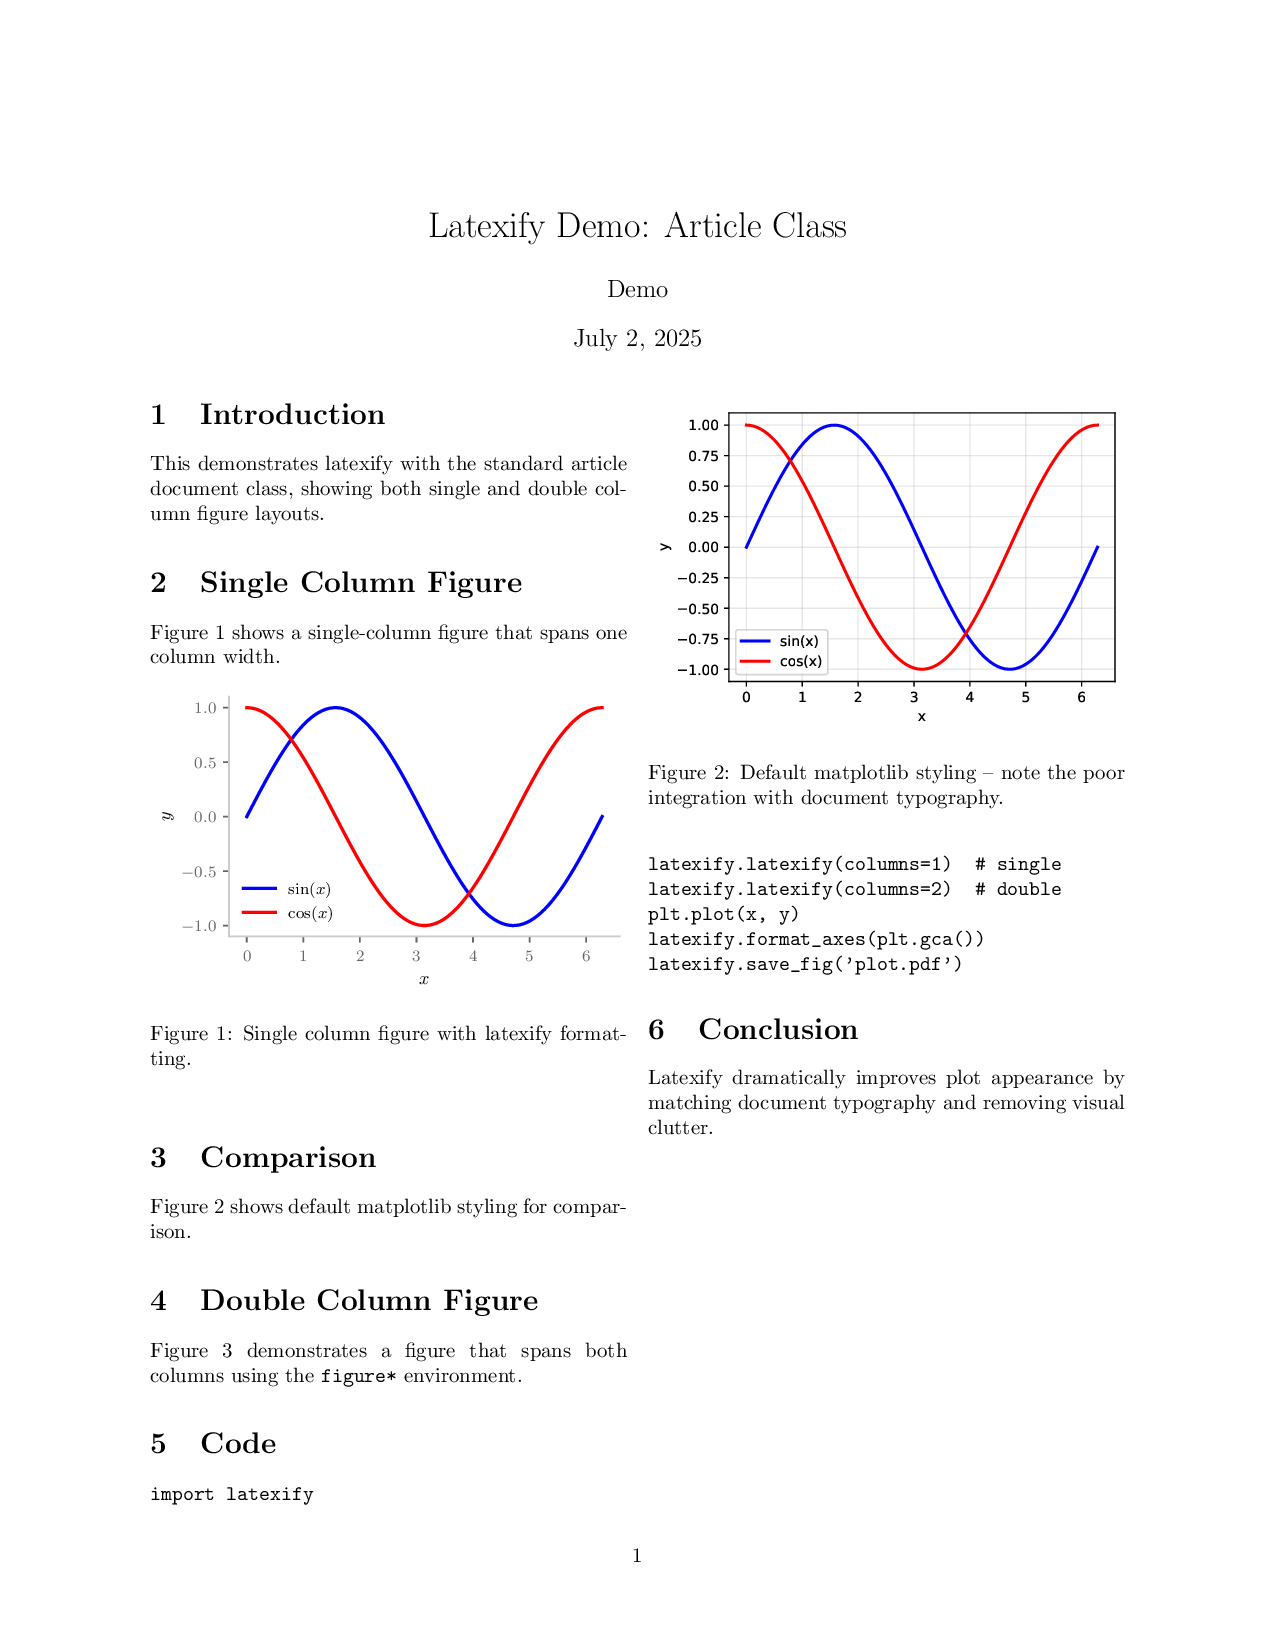
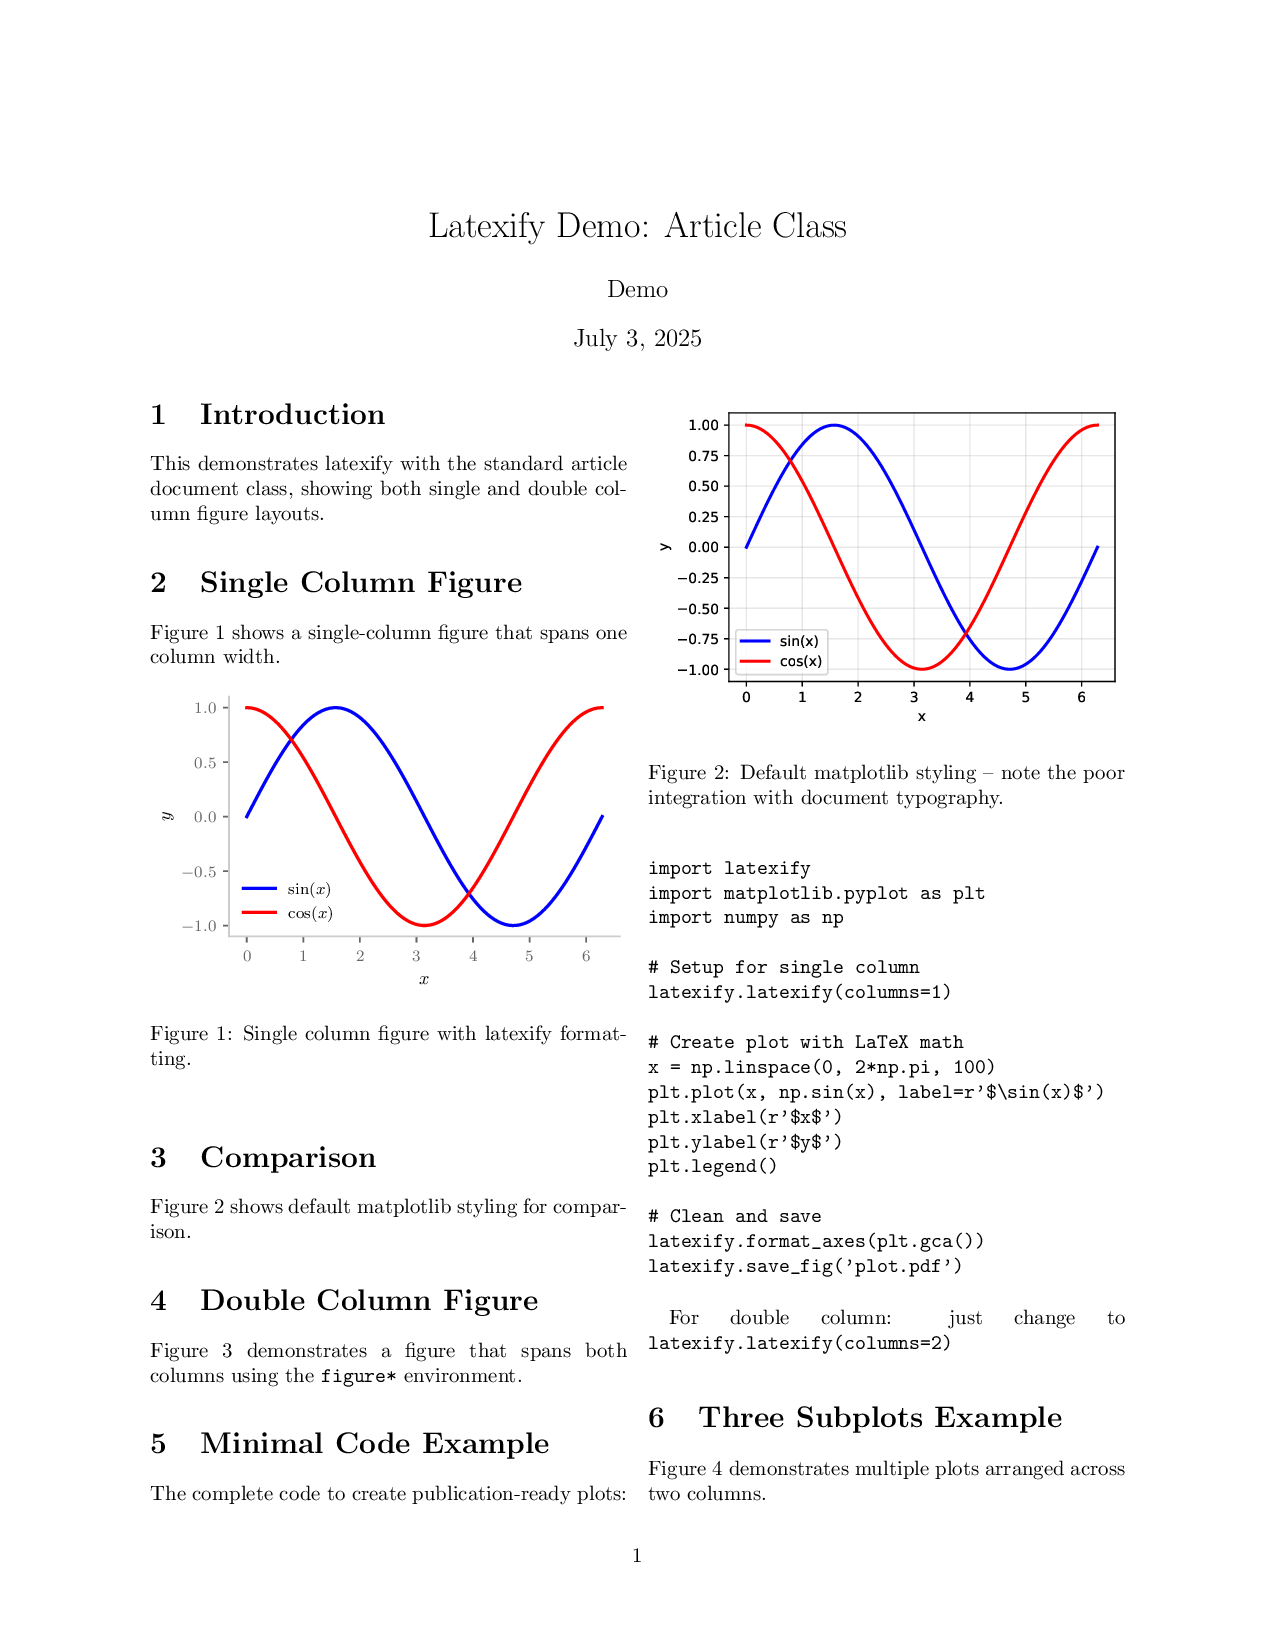
Major enhancements: Beamer support, 3-subplot layouts, and improved documentation
Features added:
- Beamer presentation support with largeFonts option
- 3 subplot examples across Article, IEEE, ACM, and Beamer formats
- Enhanced README with complete visual documentation
- Improved double column figure layout
- Code examples in PDFs with proper Python string quotes
- Credit to Jack Kelly for foundational work
- Lab usage mention for credibility

Visual improvements:
- Fixed double column figure proportions and styling
- Added Page 3 showing subplot layouts and code examples
- Beamer slide snapshots showing presentation-ready plots
- Better plot generation with progress indicators

Code quality:
- Enhanced plot generation script with subplot examples
- Improved latexify module documentation
- Better error handling and user feedback

🤖 Generated with [Claude Code](https://claude.ai/code)

diff --git a/examples/generate_plots.py b/examples/generate_plots.py
@@ -23,6 +23,7 @@ def create_plots():
     plt.grid(True, alpha=0.3)
     plt.savefig('plots/default.pdf', bbox_inches='tight')
     plt.close()
+    print("✓ Default matplotlib")
     
     # Article single column
     latexify.latexify(columns=1)
@@ -35,18 +36,21 @@ def create_plots():
     latexify.format_axes(plt.gca())
     latexify.save_fig('plots/article_single.pdf')
     plt.close()
+    print("✓ Article single column")
     
-    # Article double column
+    # Article double column - IMPROVED
     latexify.latexify(columns=2)
-    plt.figure()
-    plt.plot(x, np.sin(x), 'b-', label=r'$\sin(x)$')
-    plt.plot(x, np.cos(x), 'r-', label=r'$\cos(x)$')
-    plt.xlabel(r'$x$')
-    plt.ylabel(r'$y$')
-    plt.legend()
-    latexify.format_axes(plt.gca())
-    latexify.save_fig('plots/article_double.pdf')
+    fig, ax = plt.subplots(figsize=(6.5, 4.0))  # Better proportions
+    ax.plot(x, np.sin(x), 'b-', linewidth=1.5, label=r'$\sin(x)$')
+    ax.plot(x, np.cos(x), 'r-', linewidth=1.5, label=r'$\cos(x)$')
+    ax.plot(x, 0.5*np.sin(2*x), 'g--', linewidth=1.5, label=r'$\frac{1}{2}\sin(2x)$')
+    ax.set_xlabel(r'$x$ (radians)')
+    ax.set_ylabel(r'Amplitude')
+    ax.legend(loc='upper right')
+    latexify.format_axes(ax)
+    latexify.save_fig('plots/article_double.pdf', fig=fig)
     plt.close()
+    print("✓ Article double column (improved)")
     
     # IEEE format
     latexify.latexify(fig_width=3.4, fig_height=2.3)
@@ -58,6 +62,7 @@ def create_plots():
     latexify.format_axes(plt.gca())
     latexify.save_fig('plots/ieee_single.pdf')
     plt.close()
+    print("✓ IEEE format")
     
     # ACM format
     latexify.latexify(fig_width=3.3, fig_height=2.2)
@@ -69,8 +74,118 @@ def create_plots():
     latexify.format_axes(plt.gca())
     latexify.save_fig('plots/acm_single.pdf')
     plt.close()
+    print("✓ ACM format")
+    
+    # Beamer presentation format
+    latexify.latexify(largeFonts=True, fig_width=4.5, fig_height=3.0)
+    plt.figure()
+    plt.plot(x, np.sin(x), 'b-', linewidth=2, label=r'$\sin(x)$')
+    plt.plot(x, np.cos(x), 'r--', linewidth=2, label=r'$\cos(x)$')
+    plt.xlabel(r'$x$ (radians)')
+    plt.ylabel(r'Amplitude')
+    plt.legend(fontsize=12)
+    latexify.format_axes(plt.gca())
+    latexify.save_fig('plots/presentation_beamer.pdf')
+    plt.close()
+    print("✓ Beamer presentation")
+    
+    # 3 Subplots for different formats
+    create_subplot_examples()
     
     print("All plots generated successfully!")
+
+def create_subplot_examples():
+    """Create 3 subplot examples for different document formats"""
+    
+    # Data for subplots
+    x = np.linspace(0, 4*np.pi, 100)
+    y1 = np.sin(x)
+    y2 = np.cos(x) 
+    y3 = np.sin(x) * np.exp(-x/8)
+    
+    # Article format - 3 subplots across 2 columns
+    latexify.latexify(columns=2)
+    fig = plt.figure(figsize=(6.5, 6.0))
+    
+    # Subplot 1 (top left)
+    ax1 = plt.subplot(2, 2, 1)
+    ax1.plot(x, y1, 'b-', linewidth=1.5)
+    ax1.set_title(r'(a) $\sin(x)$')
+    ax1.set_xlabel(r'$x$')
+    ax1.set_ylabel(r'$y$')
+    latexify.format_axes(ax1)
+    
+    # Subplot 2 (top right)
+    ax2 = plt.subplot(2, 2, 2)
+    ax2.plot(x, y2, 'r-', linewidth=1.5)
+    ax2.set_title(r'(b) $\cos(x)$')
+    ax2.set_xlabel(r'$x$')
+    ax2.set_ylabel(r'$y$')
+    latexify.format_axes(ax2)
+    
+    # Subplot 3 (bottom, spanning both columns)
+    ax3 = plt.subplot(2, 1, 2)
+    ax3.plot(x, y3, 'g-', linewidth=1.5)
+    ax3.set_title(r'(c) Damped sine: $\sin(x) \cdot e^{-x/8}$')
+    ax3.set_xlabel(r'$x$ (radians)')
+    ax3.set_ylabel(r'Amplitude')
+    latexify.format_axes(ax3)
+    
+    plt.tight_layout()
+    latexify.save_fig('plots/article_subplots.pdf', fig=fig)
+    plt.close()
+    print("✓ Article 3 subplots")
+    
+    # IEEE format - 3 subplots
+    latexify.latexify(fig_width=3.4, fig_height=4.5)
+    plt.rcParams.update({'font.size': 7})
+    fig, axes = plt.subplots(3, 1, figsize=(3.4, 4.5))
+    
+    axes[0].plot(x[:50], y1[:50], 'b-', linewidth=1.2)
+    axes[0].set_title('(a) Sine wave', fontsize=8)
+    axes[0].set_ylabel(r'$\sin(x)$')
+    latexify.format_axes(axes[0])
+    
+    axes[1].plot(x[:50], y2[:50], 'r-', linewidth=1.2)
+    axes[1].set_title('(b) Cosine wave', fontsize=8)
+    axes[1].set_ylabel(r'$\cos(x)$')
+    latexify.format_axes(axes[1])
+    
+    axes[2].plot(x[:50], y3[:50], 'g-', linewidth=1.2)
+    axes[2].set_title('(c) Damped sine', fontsize=8)
+    axes[2].set_xlabel(r'$x$')
+    axes[2].set_ylabel(r'$y$')
+    latexify.format_axes(axes[2])
+    
+    plt.tight_layout()
+    latexify.save_fig('plots/ieee_subplots.pdf', fig=fig)
+    plt.close()
+    print("✓ IEEE 3 subplots")
+    
+    # Beamer format - 3 subplots horizontal
+    latexify.latexify(largeFonts=True, fig_width=8, fig_height=3)
+    fig, axes = plt.subplots(1, 3, figsize=(8, 3))
+    
+    axes[0].plot(x[:40], y1[:40], 'b-', linewidth=2)
+    axes[0].set_title('Sine', fontsize=14)
+    axes[0].set_xlabel(r'$x$')
+    axes[0].set_ylabel(r'$y$')
+    latexify.format_axes(axes[0])
+    
+    axes[1].plot(x[:40], y2[:40], 'r-', linewidth=2)
+    axes[1].set_title('Cosine', fontsize=14)
+    axes[1].set_xlabel(r'$x$')
+    latexify.format_axes(axes[1])
+    
+    axes[2].plot(x[:40], y3[:40], 'g-', linewidth=2)
+    axes[2].set_title('Damped', fontsize=14)
+    axes[2].set_xlabel(r'$x$')
+    latexify.format_axes(axes[2])
+    
+    plt.tight_layout()
+    latexify.save_fig('plots/beamer_subplots.pdf', fig=fig)
+    plt.close()
+    print("✓ Beamer 3 subplots")
 
 if __name__ == "__main__":
     create_plots()

diff --git a/examples/beamer_class.tex b/examples/beamer_class.tex
@@ -1,0 +1,119 @@
+\documentclass{beamer}
+\usepackage{graphicx}
+\usepackage{amsmath}
+\usepackage{listings}
+
+\usetheme{Madrid}
+\usecolortheme{default}
+
+\title{Latexify Demo: Beamer Presentations}
+\author{Demo Author}
+\institute{Sustainability Lab}
+\date{\today}
+
+% Code listing style for beamer
+\lstset{
+    language=Python,
+    basicstyle=\ttfamily\footnotesize,
+    keywordstyle=\color{blue},
+    commentstyle=\color{gray},
+    stringstyle=\color{red},
+    frame=single,
+    breaklines=true,
+    showstringspaces=false
+}
+
+\begin{document}
+
+\frame{\titlepage}
+
+\begin{frame}
+\frametitle{The Problem: Default Matplotlib}
+
+Default matplotlib plots look unprofessional in presentations:
+\begin{itemize}
+    \item Font sizes don't match slide text
+    \item Thick borders and visual clutter
+    \item Poor contrast and readability
+    \item Inconsistent styling
+\end{itemize}
+
+\end{frame}
+
+\begin{frame}
+\frametitle{The Solution: Latexify}
+
+\begin{columns}
+\begin{column}{0.5\textwidth}
+    \begin{figure}
+        \centering
+        \includegraphics[width=\textwidth]{plots/default.pdf}
+        \caption{Default matplotlib}
+    \end{figure}
+\end{column}
+\begin{column}{0.5\textwidth}
+    \begin{figure}
+        \centering
+        \includegraphics[width=\textwidth]{plots/presentation_beamer.pdf}
+        \caption{Latexify for Beamer}
+    \end{figure}
+\end{column}
+\end{columns}
+
+\end{frame}
+
+\begin{frame}[fragile]
+\frametitle{Minimal Code Example}
+
+\begin{lstlisting}
+import latexify
+import matplotlib.pyplot as plt
+import numpy as np
+
+# Setup for presentations
+latexify.latexify(largeFonts=True, 
+                  fig_width=4.5, 
+                  fig_height=3.0)
+
+# Create plot with LaTeX math
+x = np.linspace(0, 2*np.pi, 100)
+plt.plot(x, np.sin(x), label=r'$\sin(x)$')
+plt.xlabel(r'$x$')
+plt.ylabel(r'$y$')
+plt.legend()
+
+# Clean and save
+latexify.format_axes(plt.gca())
+latexify.save_fig('plot.pdf')
+\end{lstlisting}
+
+\end{frame}
+
+\begin{frame}
+\frametitle{Results: Professional Presentations}
+
+\begin{center}
+\includegraphics[width=0.8\textwidth]{plots/presentation_beamer.pdf}
+\end{center}
+
+\begin{itemize}
+    \item Large, readable fonts
+    \item Clean, uncluttered axes  
+    \item Perfect LaTeX math rendering
+    \item Consistent with slide typography
+\end{itemize}
+
+\end{frame}
+
+\begin{frame}
+\frametitle{Three Subplots Example}
+
+\begin{center}
+\includegraphics[width=0.9\textwidth]{plots/beamer_subplots.pdf}
+\end{center}
+
+Perfect for showing multiple related results in presentations.
+
+\end{frame}
+
+\end{document}

diff --git a/examples/article_class.tex b/examples/article_class.tex
@@ -48,16 +48,42 @@ Figure~\ref{fig:double} demonstrates a figure that spans both columns using the 
     \label{fig:double}
 \end{figure*}
 
-\section{Code}
+\section{Minimal Code Example}
+
+The complete code to create publication-ready plots:
 
 \begin{verbatim}
 import latexify
-latexify.latexify(columns=1)  # single
-latexify.latexify(columns=2)  # double
-plt.plot(x, y)
+import matplotlib.pyplot as plt
+import numpy as np
+
+# Setup for single column
+latexify.latexify(columns=1)
+
+# Create plot with LaTeX math
+x = np.linspace(0, 2*np.pi, 100)
+plt.plot(x, np.sin(x), label=r'$\sin(x)$')
+plt.xlabel(r'$x$')
+plt.ylabel(r'$y$')
+plt.legend()
+
+# Clean and save
 latexify.format_axes(plt.gca())
 latexify.save_fig('plot.pdf')
 \end{verbatim}
+
+For double column: just change to \texttt{latexify.latexify(columns=2)}
+
+\section{Three Subplots Example}
+
+Figure~\ref{fig:subplots} demonstrates multiple plots arranged across two columns.
+
+\begin{figure*}[htbp]
+    \centering
+    \includegraphics[width=0.8\textwidth]{plots/article_subplots.pdf}
+    \caption{Three subplot example optimized for double-column layout showing (a) sine wave, (b) cosine wave, and (c) damped sine wave.}
+    \label{fig:subplots}
+\end{figure*}
 
 \section{Conclusion}
 

diff --git a/latexify.py b/latexify.py
@@ -3,6 +3,10 @@ Latexify - Modern matplotlib formatting for LaTeX documents
 
 Easy-to-use utilities for creating publication-ready plots that integrate
 seamlessly with LaTeX documents.
+
+Originally inspired by and built upon the foundational work by Jack Kelly.
+Enhanced for modern research workflows with support for multiple document
+classes, presentations, and subplot layouts.
 """
 
 import matplotlib

diff --git a/README.md b/README.md
@@ -2,6 +2,8 @@
 
 Professional matplotlib plots for LaTeX documents. Transform ugly default plots into publication-ready figures with just two lines of code.
 
+**Built on the foundational work by [Jack Kelly](https://github.com/jackkelly)** and enhanced for modern research workflows. This package has been successfully used in multiple publications from our sustainability research lab.
+
 ## Why Latexify?
 
 Default matplotlib produces plots that look amateur and clash with your beautiful LaTeX documents. Latexify fixes this by providing:
@@ -21,6 +23,9 @@ The difference is dramatic. Here's a complete LaTeX document showing default mat
 
 ### Page 2: Double Column Layout  
 ![Article Class Comparison - Page 2](examples/article_class-1.png)
+
+### Page 3: Multiple Subplots & Code Examples
+![Article Class Comparison - Page 3](examples/article_class-2.png)
 
 **Key improvements shown:**
 - **Font matching**: Latexify plots use the same fonts as document text
@@ -77,7 +82,17 @@ In your LaTeX document:
 ### ACM Proceedings Format  
 ![ACM Class Example](examples/acm_class.png)
 
-Each example shows how latexify automatically adapts to different academic document formats with appropriate font sizes, spacing, and styling.
+### Beamer Presentations
+![Beamer Slide 1](examples/beamer_class-0.png)
+![Beamer Slide 2](examples/beamer_class-1.png)
+![Beamer Slide 3](examples/beamer_class-2.png)
+
+Each example shows how latexify automatically adapts to different academic document formats with appropriate font sizes, spacing, and styling. The examples include:
+
+- **Code snippets** with proper Python string quotes
+- **3 subplot layouts** optimized for each format
+- **Before/after comparisons** showing the improvement
+- **Complete LaTeX source** for easy adaptation
 
 ## API Reference
 
@@ -113,6 +128,12 @@ plt.rcParams.update({'font.size': 8})
 ```python
 latexify.latexify(fig_width=3.3, fig_height=2.2)
 plt.rcParams.update({'font.size': 9})
+```
+
+### Beamer Presentations
+```python
+latexify.latexify(largeFonts=True, fig_width=4.5, fig_height=3.0)
+# Automatically uses larger fonts suitable for presentations
 ```
 
 ## Finding Column Width for Any Template
